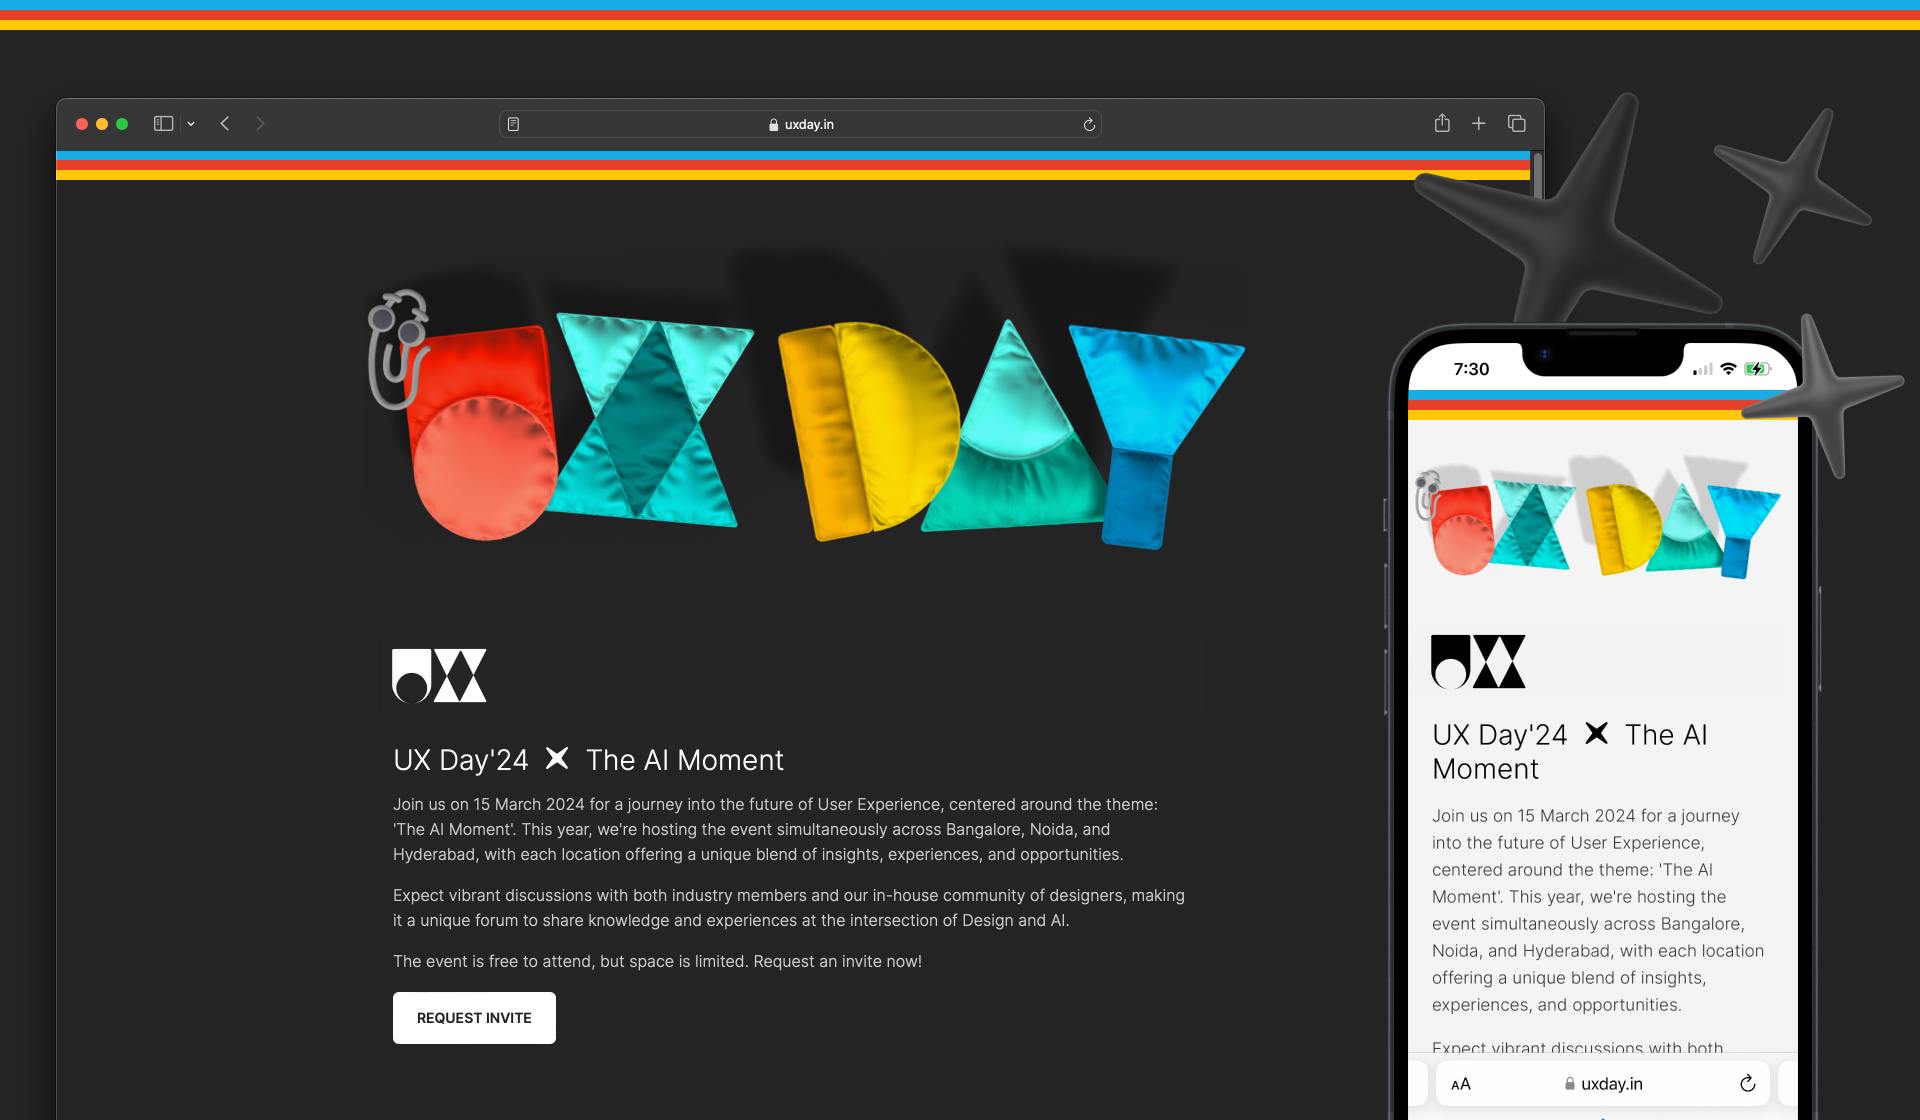
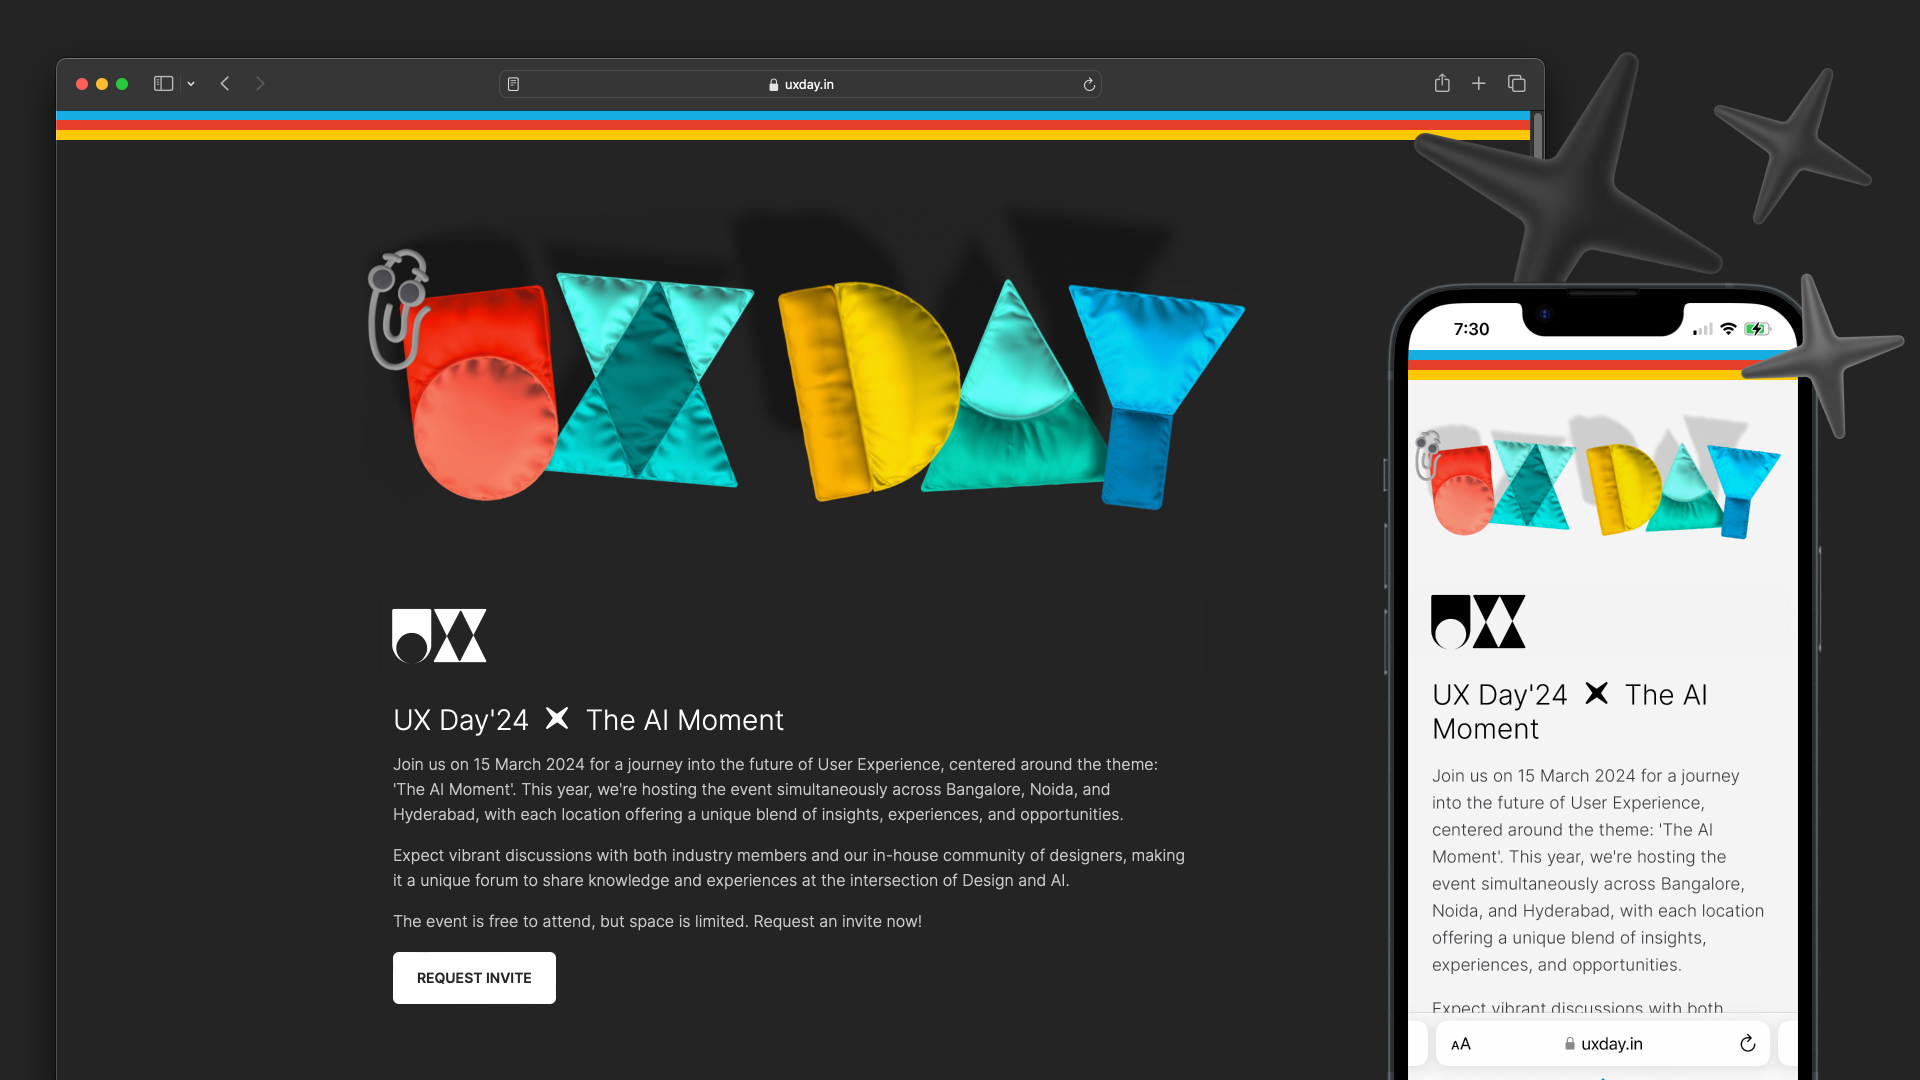
thumbs

diff --git a/_posts/2024-03-17-turning-28.md b/_posts/2024-03-17-turning-28.md
@@ -4,7 +4,8 @@ title: Turning 28
 subtitle: Holy shit, I'm old now
 tags: 
 thumbnail: https://gyanl.com/assets/thumbs/28.png
-date modified: 10-10-2023
+date modified: 23-03-2024
+date: 14-06-2023
 ---
 
 What would I like turning 28 to feel like? What would future Gyan be proud of to have had accomplished?

diff --git a/_posts/2024-03-23-uxday.md b/_posts/2024-03-23-uxday.md
@@ -1,9 +1,11 @@
 ---
 layout: post
 title: UX Day 2024
-subtitle: 
-tags: 
-thumbnail: https://gyanl.com/assets/thumbs/default.png
+subtitle: The AI Moment
+tags:
+  - talks
+  - website
+thumbnail: https://gyanl.com/assets/thumbs/uxday.png
 date: 23-03-2024
 date modified: 23-03-2024
 ---
